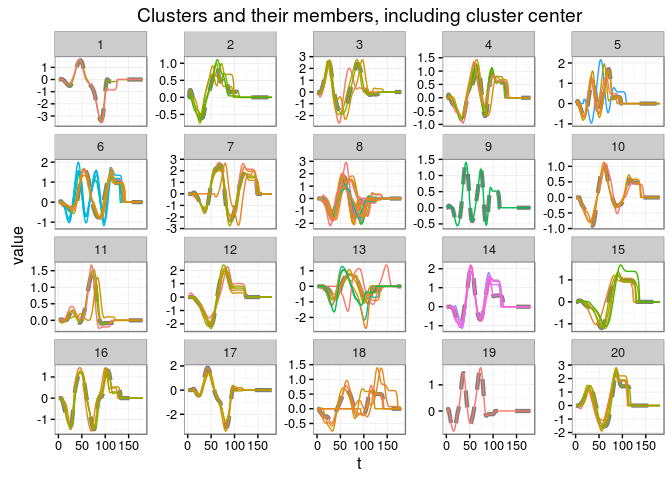
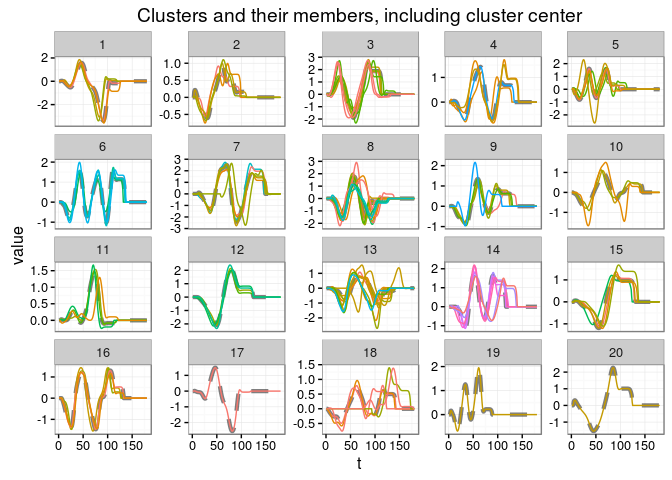
Bug fixes
Extra parameters for custom distances were being matched twice via dots
and dots2. Also, dtw_lb shouldn't be used with pam.precompute = TRUE, so
that now throws a warning. Pairs function was also fixed.

diff --git a/src/pairs.c b/src/pairs.c
@@ -12,8 +12,8 @@ void pairs_c(const int n, const int nrow, int *out, const int byrow)
 {
      int i, j;
      int p = 0;
-     
-     if(byrow) 
+
+     if(byrow)
      {
           for(i = 1; i < n; i++)
           {
@@ -31,8 +31,8 @@ void pairs_c(const int n, const int nrow, int *out, const int byrow)
           {
                for(i = 1; i < j; i++)
                {
-                    out[p] = j;
-                    out[p+nrow] = i;
+                    out[p] = i;
+                    out[p+nrow] = j;
                     p++;
                }
           }
@@ -44,19 +44,19 @@ SEXP pairs(SEXP L, SEXP byrow)
 {
      int n = asInteger(L);
      int nrow = n * (n+1) / 2 - n;
-     
+
      // allocate output integer vector
      SEXP ret = PROTECT(allocMatrix(INTSXP, nrow, 2));
-     
+
      // get pointers to output objects
      int *out = INTEGER(ret);
-     
+
      // dispatch to C function
      pairs_c(n, nrow, out, asLogical(byrow));
-     
+
      // release protection
      UNPROTECT(1);
-     
+
      // finish
      return ret;
 }

diff --git a/README.md b/README.md
@@ -37,14 +37,14 @@ ctrl <- list(window.size = 20L, trace = TRUE)
 #### Using DTW with help of lower bounds and PAM centroids
 kc.dtwlb <- dtwclust(data = data, k = 20, distance = "dtw_lb",
                      centroid = "pam", seed = 3247, 
-                     control = ctrl)
-#> Iteration 1: Changes / Distsum = 100 / 932.183
-#> Iteration 2: Changes / Distsum = 18 / 632.6588
-#> Iteration 3: Changes / Distsum = 2 / 596.8066
-#> Iteration 4: Changes / Distsum = 0 / 596.5887
+                     control = c(ctrl, list(pam.precompute = FALSE)))
+#> Iteration 1: Changes / Distsum = 100 / 1639.01
+#> Iteration 2: Changes / Distsum = 13 / 1311.143
+#> Iteration 3: Changes / Distsum = 4 / 1298.251
+#> Iteration 4: Changes / Distsum = 1 / 1288.069
+#> Iteration 5: Changes / Distsum = 0 / 1288.069
 #> 
-#> 
-#>  Elapsed time is 4.166 seconds.
+#>  Elapsed time is 14.201 seconds.
 
 plot(kc.dtwlb)
 ```
@@ -55,18 +55,25 @@ plot(kc.dtwlb)
 
 #### Hierarchical clustering based on shape-based distance
 hc.sbd <- dtwclust(datalist, type = "hierarchical",
-                   k = 20, distance = "sbd", 
+                   k = 20, distance = "sbd",
+                   method = "all",
                    control = ctrl)
 #> 
 #>  Calculating distance matrix...
 #> 
 #>  Performing hierarchical clustering...
 #> 
-#>  Elapsed time is 0.543 seconds.
+#>  Elapsed time is 0.628 seconds.
 
-cat("Rand index for HC+SBD:", randIndex(hc.sbd, CharTrajLabels), "\n\n")
-#> Rand index for HC+SBD: 0.512583
-plot(hc.sbd)
+cat("Rand index for HC+SBD:\n")
+#> Rand index for HC+SBD:
+print(ri <- sapply(hc.sbd, randIndex, y = CharTrajLabels))
+#>       ARI       ARI       ARI       ARI       ARI       ARI       ARI 
+#> 0.7405012 0.7034438 0.3428238 0.5302644 0.5125830 0.5746408 0.4182468 
+#>       ARI 
+#> 0.4196458
+
+plot(hc.sbd[[which.max(ri)]])
 ```
 
 ![](README-examples-2.png)
@@ -81,7 +88,7 @@ kc.tadp <- dtwclust(data, type = "tadpole", k = 20,
 #> 
 #> TADPole completed, pruning percentage = 86.7%
 #> 
-#>  Elapsed time is 3.803 seconds.
+#>  Elapsed time is 3.626 seconds.
 
 plot(kc.tadp, clus = 1:4)
 ```
@@ -130,8 +137,7 @@ kc <- dtwclust(datalist, k = 20,
 #> Iteration 3: Changes / Distsum = 2 / 3.687197
 #> Iteration 4: Changes / Distsum = 0 / 3.631238
 #> 
-#> 
-#>  Elapsed time is 21.673 seconds.
+#>  Elapsed time is 20.149 seconds.
 
 # Modifying some plot parameters
 plot(kc, labs.arg = list(title = "DBA Centroids", x = "time", y = "series"))

diff --git a/NEWS.md b/NEWS.md
@@ -1,6 +1,7 @@
 # NEWS
 
 ## Version 2.0.0
+* Major refactor.
 * Many formal parameters from the `dtwclust` function were dropped and implemented in the formal class `dtwclustControl`. For now, they will still be supported through `...` with a message.
 * Dropped inheritance of `flexclust`'s `kccasimple`
      + Many slots and methods were be ported
@@ -11,6 +12,8 @@
      + DBA itself (probably unnecessary unless you're averaging a lot of series)
 * Several hierarchical procedures can be made in one run.
 * Added `distmat` slot and `update` generic to save some time if possible. See examples of `dtwclust`.
+* Extra parameters for distance functions should be correctly detected now.
+* Using `dtw_lb` function now correctly warns about `pam.precompute` being `TRUE`.
 
 ## Version 1.3.0
 * Added the possibility to run several repetitions for partitional procedures, using different random starts each time by using the doRNG package

diff --git a/cran-comments.md b/cran-comments.md
@@ -1,7 +1,8 @@
 ## Update to version 2.0.0
+* Dropped some formal parameters. Still supporting them via ellipsis.
 * More parallel support and some extended functionality. 
 * New classes and some new generics.
-* Dropped some formal parameters. Still supporting them via ellipsis.
+* Bug fixes.
 
 ## Test environments
 * Local Windows 10, R 3.2.3
